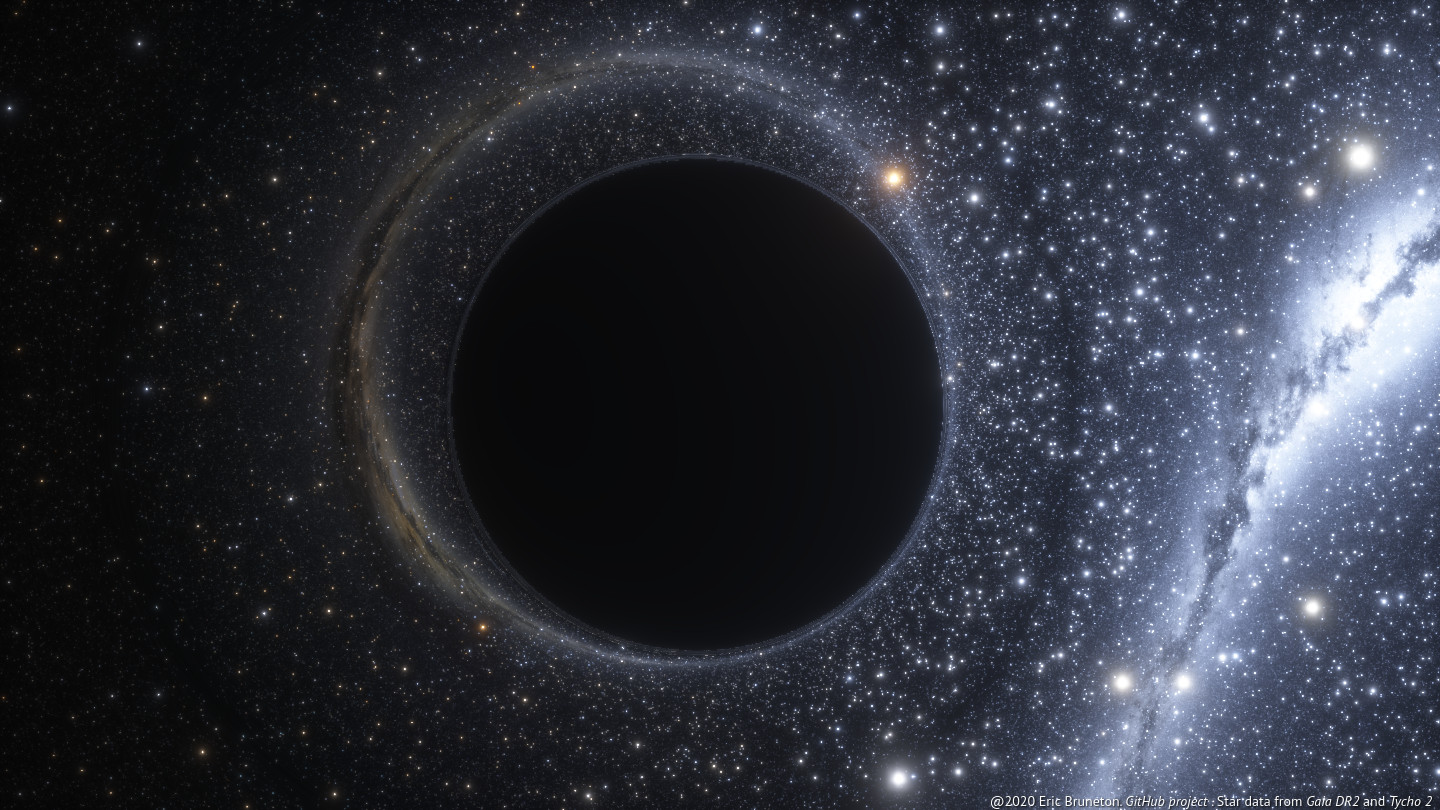
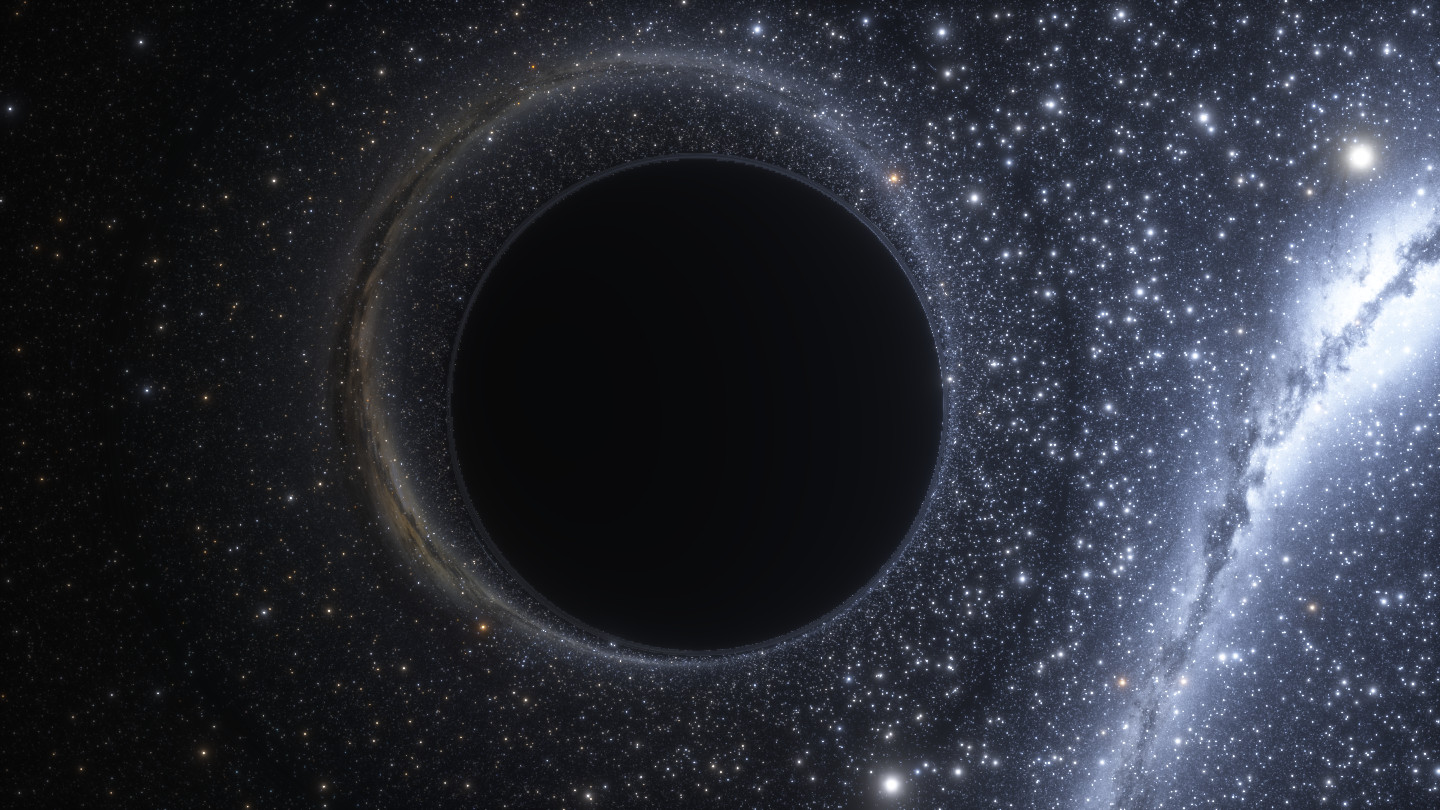
Update demo and images from latest sources.

diff --git a/index.html b/index.html
@@ -32,7 +32,8 @@
 <a href="images/black_hole_near_orion.jpg">
 <img src="images/black_hole_near_orion.jpg" width="100%">
 </a>
-<p>A black hole near <a href="https://fr.wikipedia.org/wiki/Orion_(constellation)">Orion</a>, with 2 opposite images of a star around it [<a href="demo/demo.html?or=913&oi=1101&cy=34922&os=352&sfy=693&sfp=1540&sfr=1474&ce=565&bhm=284&cp=9754&dd=393&do=0&r=33.46792681553018&dr=0.00021588733170925666&phi=5.3331338829750825&dt=401">demo</a>].
+<p>A black hole near <a href="https://fr.wikipedia.org/wiki/Orion_(constellation)">Orion</a>, with 2 opposite images of a star around it [<a href="demo/demo.html?or=913&oi=1101&cy=34922&os=352&sfy=693&sfp=1540&sfr=1474&ce=565&bhm=401&cp=9754&dd=393&do=0&r=33.46792681553018&dr=0.00021588733170925666&phi=5.3331338829750825&dt=401
+"a>].
 </center>
 
 <h2>Introduction</h2>
@@ -60,7 +61,7 @@ is available under the BSD license. See also our
 <p>The <a href="https://en.wikipedia.org/wiki/Large_Magellanic_Cloud">Large
 Magellanic Cloud</a> forming an 
 <a href="https://en.wikipedia.org/wiki/Einstein_ring">Einstein ring</a>
-around the black hole [<a href="demo/demo.html?or=913&oi=1101&cy=1210&os=352&sfy=1416&sfp=1002&sfr=1461&ce=761&bhm=284&cp=8661&dd=362&do=0&r=33.46792681553018&dr=0.00021588733170925666&phi=5.3331338829750825&dt=401
+around the black hole [<a href="demo/demo.html?or=913&oi=1101&cy=1210&os=352&sfy=1416&sfp=1002&sfr=1461&ce=761&bhm=385&cp=8661&dd=362&do=0&r=33.46792681553018&dr=0.00021588733170925666&phi=5.3331338829750825&dt=401
 ">demo</a>].
 </center>
 

diff --git a/demo/demo.html b/demo/demo.html
@@ -3751,8 +3751,8 @@ vec4 GridDiscColor(vec2 p, float t, bool top_side, float doppler_factor,
   float value_phi = mod(p_phi / pi * 16.0, 1.0) < 0.2 ? 0.0 : 1.0;
   float value_r = mod(p_r / 2.0, 1.0) < 0.2 ? 0.0 : 1.0;
   vec3 color = BlackBodyColor(black_body_texture, temperature * doppler_factor);
-  color *= 0.2 + 0.8 * value_phi * value_r;
-  return vec4(top_side ? color : color * 0.01, 1.0);
+  float pattern = 0.2 + 0.8 * value_phi * value_r;
+  return vec4(color * (top_side ? pattern : 1.2 - pattern), 1.0);
 }
 
 float Noise(vec2 uv) {
@@ -3944,7 +3944,7 @@ Angle TraceRay(IN(RayDeflectionTexture) ray_deflection_texture,
   Real fw1 = min(fwidth(ui1.x), fwidth(u1 == -1.0 ? u0 : u1));
   alpha0 = FilteredPulse(u_min, u_max, u0, fw0);
   alpha1 = FilteredPulse(u_min, u_max, u1, fw1);
-  if (abs(e_square - kMu) < min(fwidth(e_square), kMu)) {
+  if (s == 1.0 && abs(e_square - kMu) < min(fwidth(e_square), kMu)) {
     if (alpha0 < 0.99) u0 = 2.0 / (1.0 / u_min + 1.0 / u_max);
     if (alpha1 < 0.99) u1 = 2.0 / (1.0 / u_min + 1.0 / u_max);
   }
